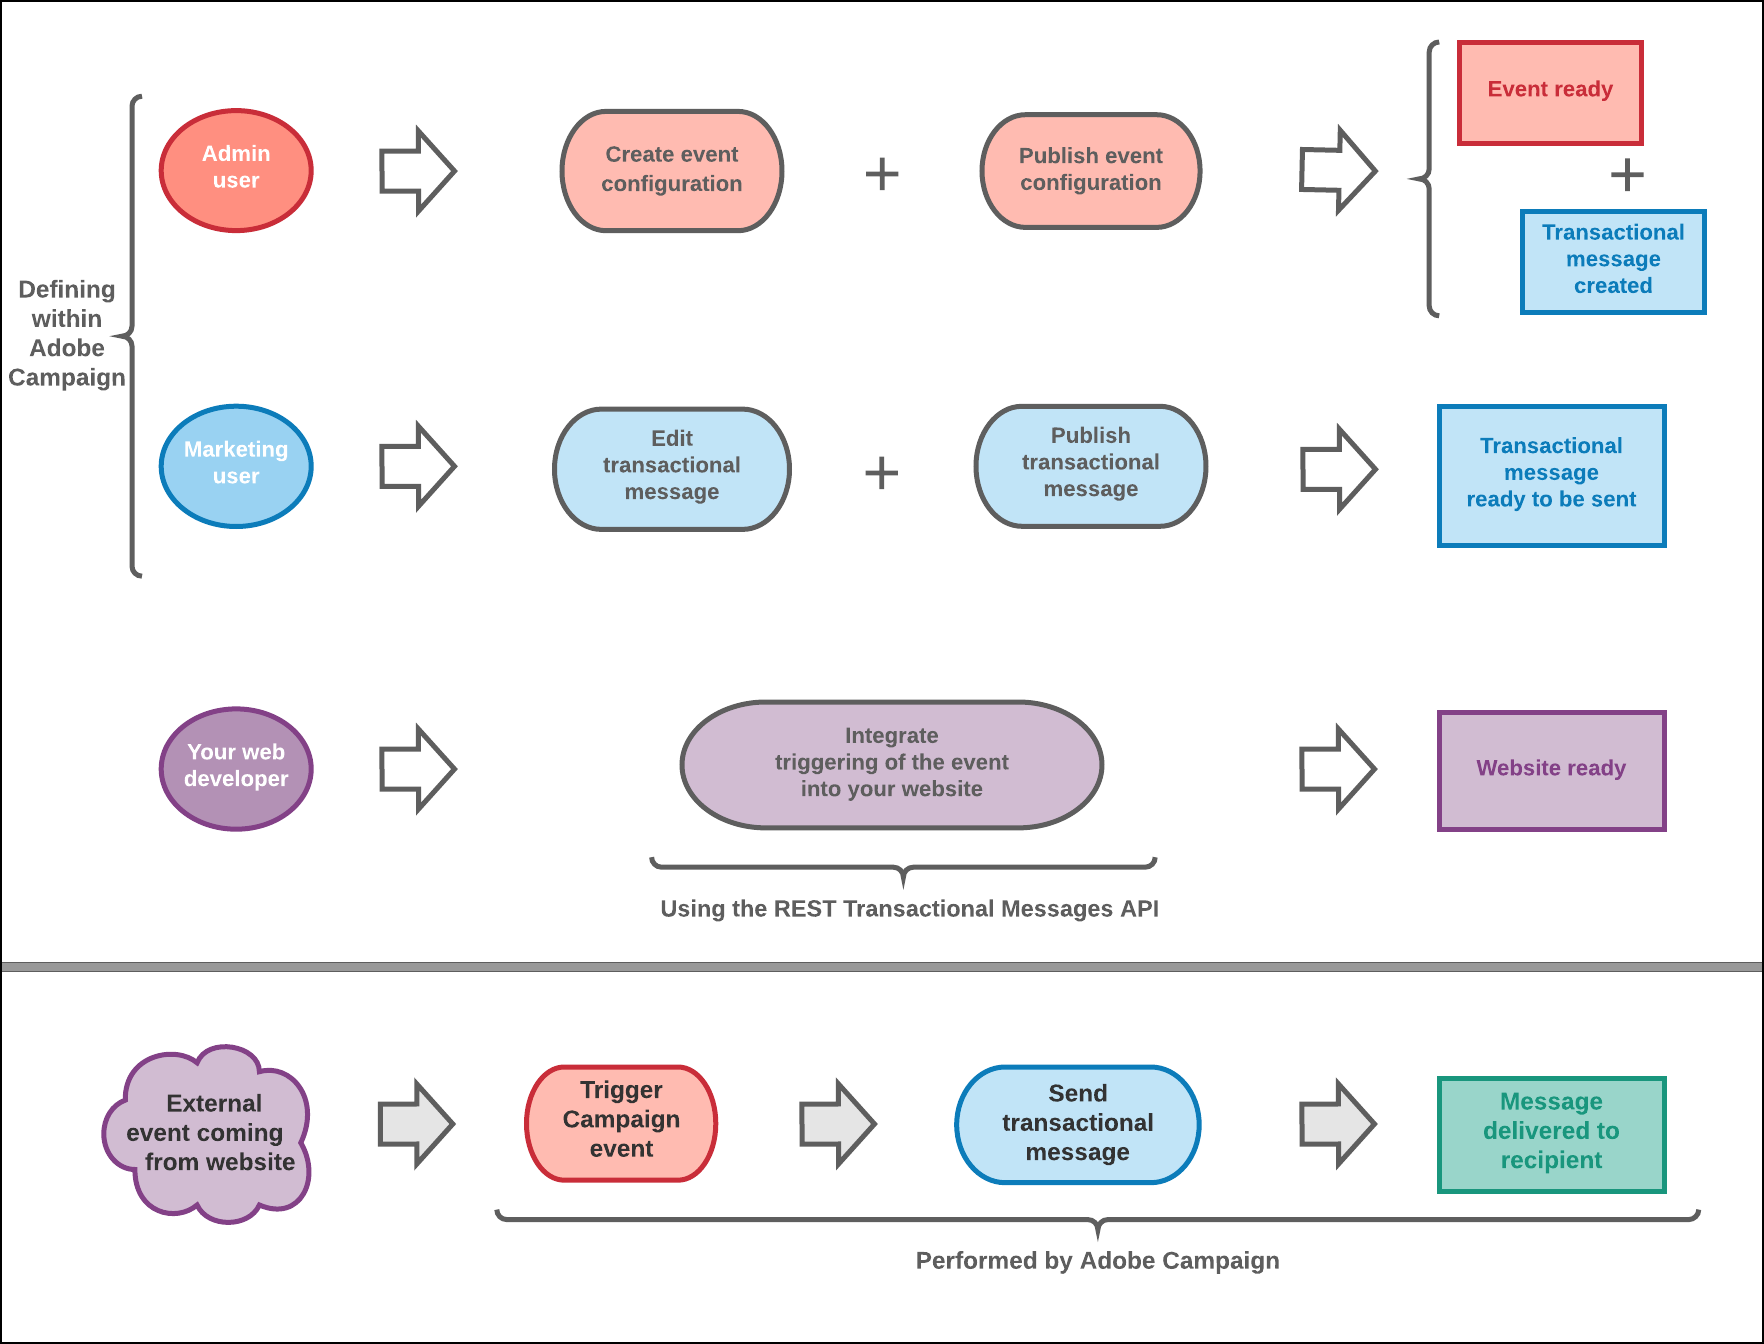
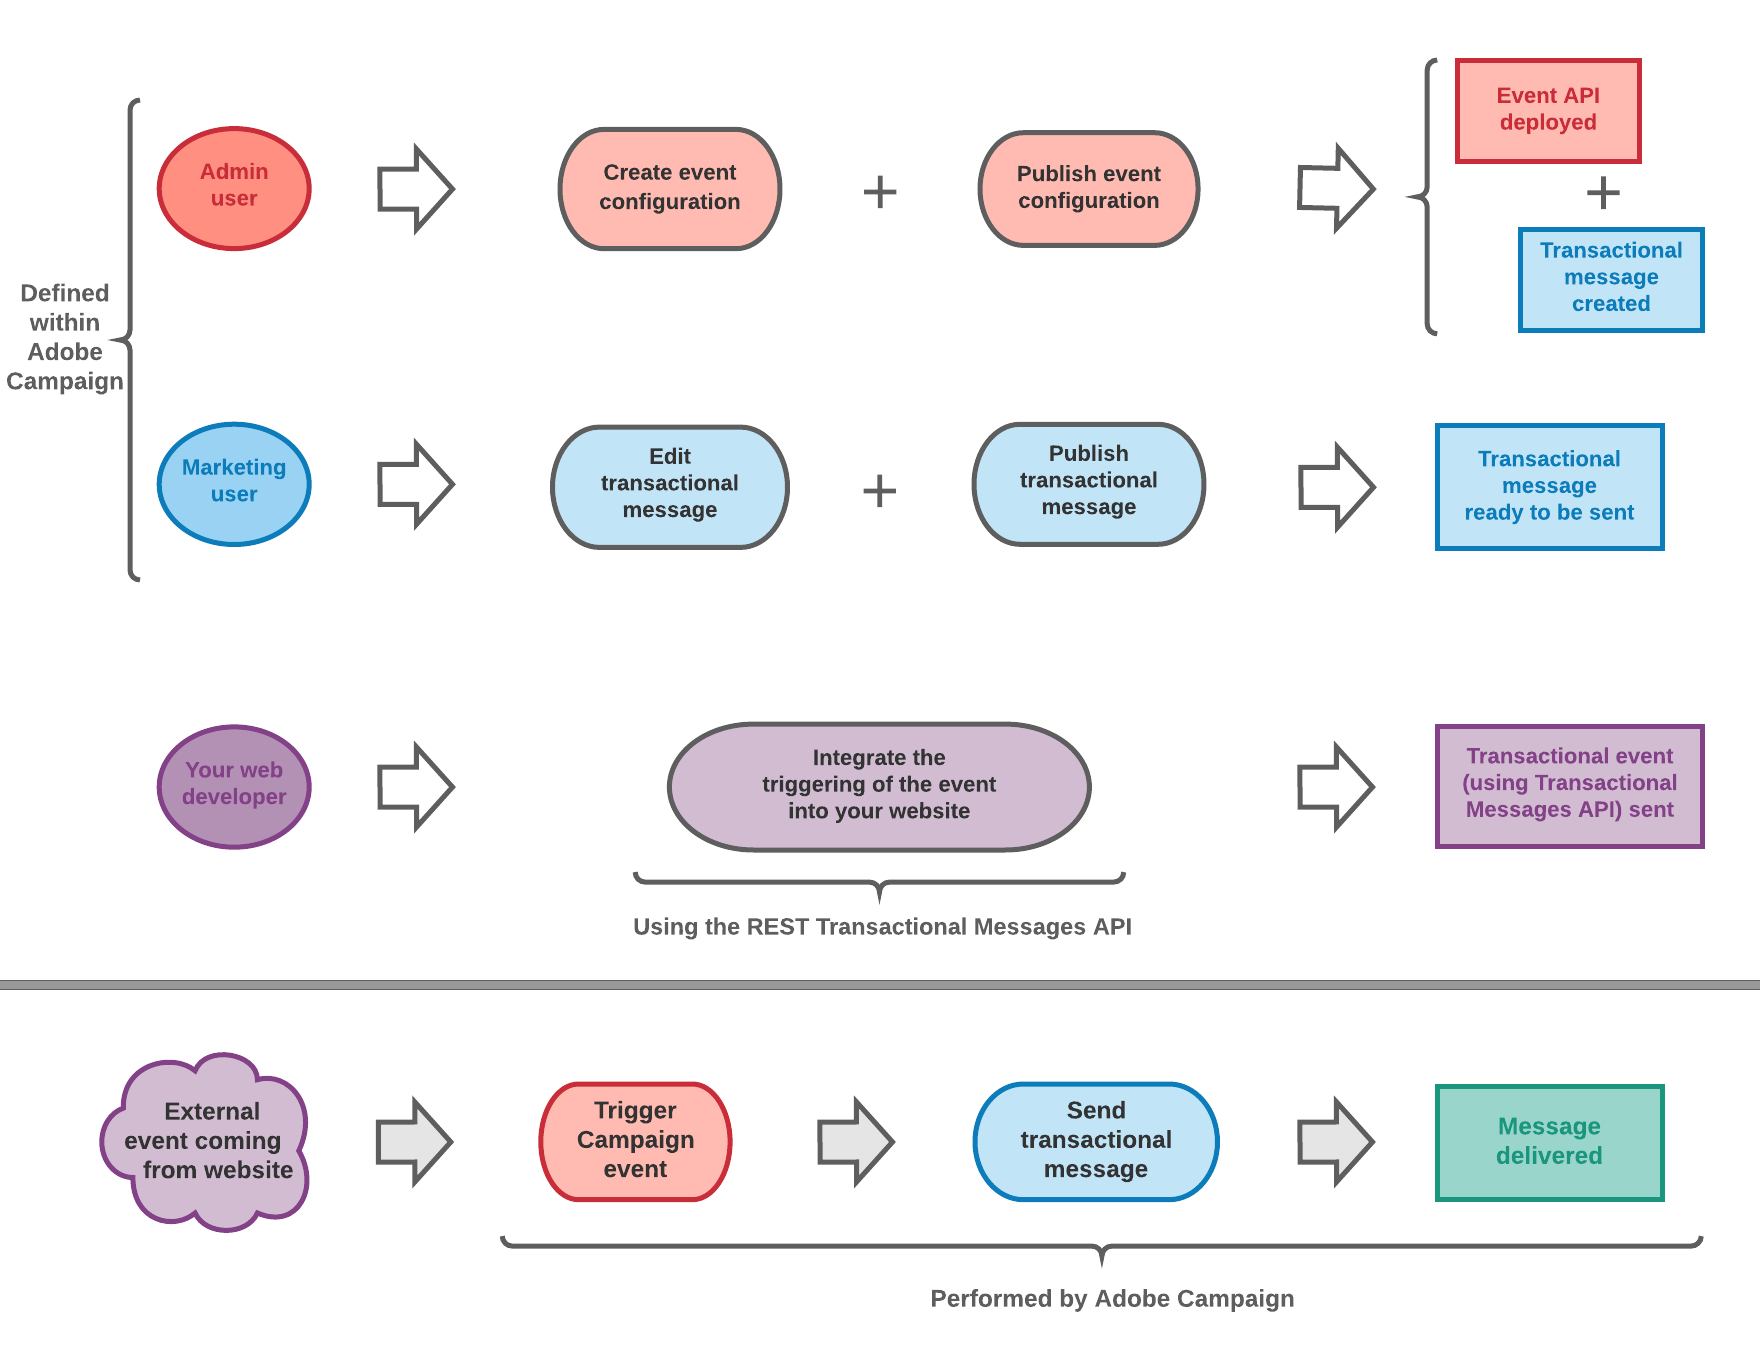
Message Center various updates

diff --git a/help/channels/using/getting-started-with-transactional-msg.md b/help/channels/using/getting-started-with-transactional-msg.md
@@ -64,7 +64,7 @@ Transactional messaging is also available from the Adobe Campaign Standard API. 
 
 Two types of transactional messages are available in Adobe Campaign:
 
-* [Event transactional messages](../../channels/using/event-transactional-messages.md) targeting an event.<!--The data contained in the event itself is used to define the delivery target.-->
+* [Event transactional messages](../../channels/using/event-transactional-messages.md) targeting an **event**.<!--The data contained in the event itself is used to define the delivery target.-->
 
     <table>
     <tr>
@@ -73,7 +73,7 @@ Two types of transactional messages are available in Adobe Campaign:
     </tr>
     </table>
 
-* [Profile transactional messages](../../channels/using/profile-transactional-messages.md) targeting profiles from the Adobe Campaign marketing database.<!--You can use information from the Adobe Campaign database to send a transactional message based on customer marketing profiles.-->
+* [Profile transactional messages](../../channels/using/profile-transactional-messages.md) targeting **profiles from the Adobe Campaign marketing database**.<!--You can use information from the Adobe Campaign database to send a transactional message based on customer marketing profiles.-->
 
     <table>
     <tr>
@@ -82,15 +82,13 @@ Two types of transactional messages are available in Adobe Campaign:
     </tr>
     </table>
 
->[!NOTE]
+The message type is defined when configuring the event that will be transformed into a transactional message. See [Transactional messaging configuration](../../administration/using/configuring-transactional-messaging.md).
+
+>[!IMPORTANT]
 >
 >To access all transactional messages, you must be part of the **[!UICONTROL Administrators (all units)]** security group.
 
-The message type is defined when configuring the event that will be transformed into a transactional message. See [Transactional messaging configuration](../../administration/using/configuring-transactional-messaging.md).
-
->[!NOTE]
->
->Event transactional messages do not contain profile information, therefore they are not compatible with fatigue rules (even in the case of an enrichment with profiles). However, profile transactional messages are compatible. For more on fatigue rules, see [this section](../../sending/using/fatigue-rules.md#choosing-the-channel).
+<!--Event transactional messages do not contain profile information, therefore they are not compatible with fatigue rules (even in the case of an enrichment with profiles). However, profile transactional messages are compatible. For more on fatigue rules, see [this section](../../sending/using/fatigue-rules.md#choosing-the-channel).-->
 
 ## Transactional messaging operating principle {#transactional-messaging-operating-principle}
 
@@ -98,16 +96,18 @@ Let's take the example of a company that has a website and on this website its c
 
 Adobe Campaign allows you to send a notification email to site users who have added products to their cart: when one of them leaves the site without going through with their purchases, a cart abandonment email is automatically sent to them.
 
-The steps for putting this into place are:
+The steps for putting this into place are the following.
 
 ### Step 1 - Create and publish the event configuration {#create-event-configuration}
 
 <table>
 <tr>
 <td class="noborder"><img src="assets/do-not-localize/icon_config.svg" width="60px"></td>
-<td class="noborder"><p>Configure an event that will be named "Cart abandonment" and publish this event configuration.<br>This automatically creates a transactional message.</p></td>
+<td class="noborder"><p>Configure an event that will be named "Cart abandonment" and publish this event configuration.</p></td>
 </tr>
 </table>
+
+The API that will be used by your website developer is deployed and a transactional message is automatically created.
 
 Creating and publishing an event are presented in the [Configuring an event to send an event transactional message](../../administration/using/configuring-transactional-messaging.md#use-case--configuring-an-event-to-send-a-transactional-message) section.
 
@@ -127,15 +127,17 @@ For more on editing and publishing a transactional message, see [Event transacti
 <table>
 <tr>
 <td class="noborder"><img src="assets/do-not-localize/icon_api.svg" width="60px"></td>
-<td class="noborder"><p>The event must be sent from the company's website using the Adobe Campaign Standard REST API.<br>Once done, the event will be triggered when a client abandons their cart.</p></td>
+<td class="noborder"><p>Use the REST Transactional Messages API to integrate the event into your website.</p></td>
 </tr>
 </table>
 
-For more on this step, see [Site integration](../../administration/using/configuring-transactional-messaging.md#integrating-the-triggering-of-the-event-in-a-website).
+The event will be triggered when a client abandons their cart.
+
+For more on integrating the event into your website, see [Site integration](../../administration/using/configuring-transactional-messaging.md#integrating-the-triggering-of-the-event-in-a-website).
 
 ### Step 4 - Message delivery {#message-delivery}
 
-Once all of these steps have been carried out, the message can be delivered as follows.
+<!--Once all of these steps have been carried out, the message can be delivered:-->
 
 <table>
 <tr>

diff --git a/help/administration/using/configuring-transactional-messaging.md b/help/administration/using/configuring-transactional-messaging.md
@@ -24,13 +24,17 @@ Event configuration must be performed by an [administrator](../../administration
 >
 >The configuration can vary depending on the type of transactional message you want to send. For more on this, refer to [Transactional event specific configurations](#transactional-event-specific-configurations).
 
-Once the event is published, the corresponding transactional message is automatically created. For more on transactional messaging, refer to [this page](../../channels/using/about-transactional-messaging.md).
+Once the event is published:
+
+* The API that will be used by your website developer is deployed and the transactional events can now be sent. See [Integrating the triggering of the event in a website](#integrating-the-triggering-of-the-event-in-a-website).
+
+* The corresponding transactional message is automatically created. See [Getting started with transactional messaging](../../channels/using/getting-started-with-transactional-msg.md).
 
 ## Creating an event {#creating-an-event}
 
 To get started, create the event corresponding to your needs.
 
->[!NOTE]
+>[!IMPORTANT]
 >
 >Only users holding the **[!UICONTROL Administration]** role and being part of the **[!UICONTROL All]** [organizational unit](../../administration/using/organizational-units.md) have the appropriate rights to create an event configuration.
 
@@ -165,6 +169,8 @@ Before being able to use the event, you must preview and publish it.
 
    ![](assets/message-center_pub.png)
 
+   The API that will be used by your website developer is deployed and the transactional events can now be sent.
+
 1. You can view the publication logs in the corresponding tab.
 
    ![](assets/message-center_logs.png)
@@ -172,7 +178,7 @@ Before being able to use the event, you must preview and publish it.
    >[!IMPORTANT]
    >
    >Each time you modify the event, you must click **[!UICONTROL Publish]** again to generate the updated REST API that will be used by your website developer.
-
+   
    Once the event has been published, a transactional message linked to the new event is automatically created.
 
 1. You can directly access this transactional message through the link located in the left-hand side area.
